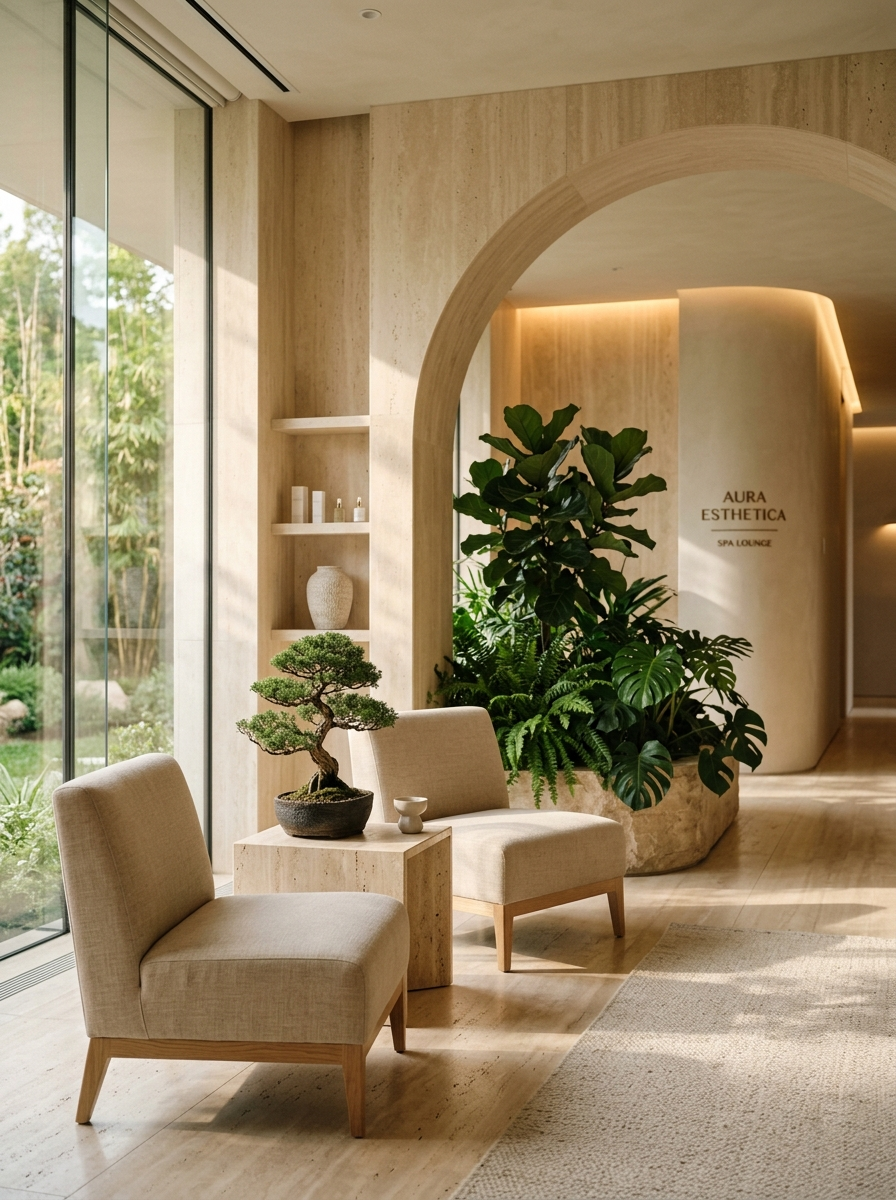
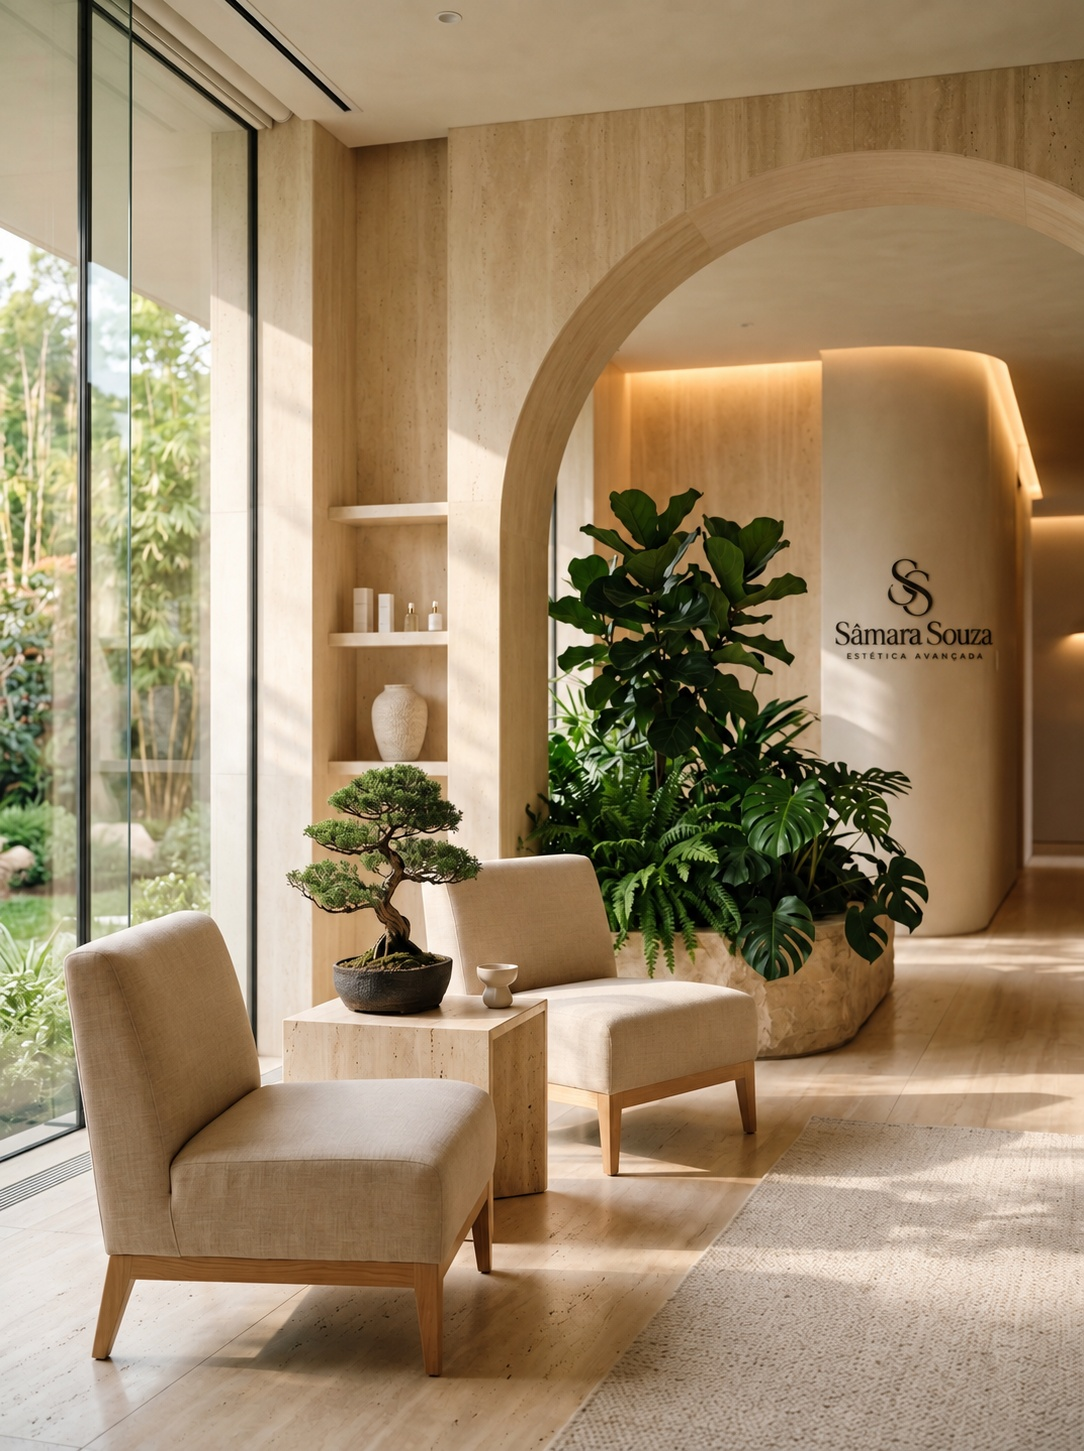
feat(ui): nova imagem premium de login e formatadores corretos de CPF e telefone

diff --git a/components/dashboard/sections/customer-form-modal.tsx b/components/dashboard/sections/customer-form-modal.tsx
@@ -104,30 +104,56 @@ export function CustomerFormModal({
 
   const handleCpfChange = (event: React.ChangeEvent<HTMLInputElement>) => {
     const formatted = formatCpf(event.currentTarget.value);
-    event.currentTarget.setCustomValidity(
-      isCompleteCpf(formatted) || !formatted ? "" : "Informe os 11 dígitos do CPF.",
-    );
+    event.currentTarget.setCustomValidity("");
     setCpf(formatted);
+  };
+
+  const handleCpfBlur = (event: React.FocusEvent<HTMLInputElement>) => {
+    if (cpf && !isCompleteCpf(cpf)) {
+      event.currentTarget.setCustomValidity("Informe os 11 dígitos do CPF.");
+    } else {
+      event.currentTarget.setCustomValidity("");
+    }
   };
 
   const handlePhoneChange = (event: React.ChangeEvent<HTMLInputElement>) => {
     const formatted = formatPhone(event.currentTarget.value);
-    event.currentTarget.setCustomValidity(
-      isCompletePhone(formatted) || !formatted
-        ? ""
-        : "Informe um telefone com DDD e 10 ou 11 dígitos.",
-    );
+    event.currentTarget.setCustomValidity("");
     setPhone(formatted);
+  };
+
+  const handlePhoneBlur = (event: React.FocusEvent<HTMLInputElement>) => {
+    if (phone && !isCompletePhone(phone)) {
+      event.currentTarget.setCustomValidity(
+        "Informe um telefone com DDD e 10 ou 11 dígitos.",
+      );
+    } else {
+      event.currentTarget.setCustomValidity("");
+    }
   };
 
   const handleSubmit = (e: React.FormEvent) => {
     e.preventDefault();
 
-    if (
-      !isCompleteCpf(cpf) ||
-      !isCompletePhone(phone) ||
-      !ALAGOAS_LOCATIONS.includes(location)
-    ) {
+    if (!isCompleteCpf(cpf)) {
+      const cpfInput = document.getElementById("customer-cpf") as HTMLInputElement;
+      if (cpfInput) {
+        cpfInput.setCustomValidity("Informe os 11 dígitos do CPF.");
+        cpfInput.reportValidity();
+      }
+      return;
+    }
+
+    if (!isCompletePhone(phone)) {
+      const phoneInput = document.getElementById("customer-phone") as HTMLInputElement;
+      if (phoneInput) {
+        phoneInput.setCustomValidity("Informe um telefone com DDD e 10 ou 11 dígitos.");
+        phoneInput.reportValidity();
+      }
+      return;
+    }
+
+    if (!ALAGOAS_LOCATIONS.includes(location)) {
       (e.currentTarget as HTMLFormElement).reportValidity();
       return;
     }
@@ -237,6 +263,7 @@ export function CustomerFormModal({
                 placeholder="000.000.000-00"
                 value={cpf}
                 onChange={handleCpfChange}
+                onBlur={handleCpfBlur}
                 className="w-full h-11 sm:h-10 px-3.5 rounded-xl bg-[#f7f7f7] border border-transparent focus:border-black text-base sm:text-xs text-black outline-none transition-all placeholder:text-[#8f8f8f]"
               />
               <p id="customer-cpf-help" className="text-[11px] text-[#767676]">
@@ -258,6 +285,7 @@ export function CustomerFormModal({
                 placeholder="(82) 98765-4321"
                 value={phone}
                 onChange={handlePhoneChange}
+                onBlur={handlePhoneBlur}
                 className="w-full h-11 sm:h-10 px-3.5 rounded-xl bg-[#f7f7f7] border border-transparent focus:border-black text-base sm:text-xs text-black outline-none transition-all placeholder:text-[#8f8f8f]"
               />
               <p id="customer-phone-help" className="text-[11px] text-[#767676]">

diff --git a/components/auth/login-view.tsx b/components/auth/login-view.tsx
@@ -164,7 +164,7 @@ export function LoginView({ onLoginSuccess, onRegisterSuccess }: LoginViewProps)
         className="hidden lg:flex lg:w-1/2 relative rounded-[28px] xl:rounded-[32px] overflow-hidden bg-[#161616] border border-white/[0.08] shadow-[inset_0_1px_0_rgba(255,255,255,0.12),0_24px_64px_-16px_rgba(0,0,0,0.9)] flex-col justify-between p-8 xl:p-12 select-none group"
       >
         <img
-          src="/relaxing-spa.jpg"
+          src="/login-clinic.png"
           alt="Ambiente Relaxante da Clínica Dra. Sâmara Souza"
           className="absolute inset-0 w-full h-full object-cover object-center scale-100 transition-transform duration-1000 ease-out group-hover:scale-105"
         />
@@ -207,7 +207,7 @@ export function LoginView({ onLoginSuccess, onRegisterSuccess }: LoginViewProps)
           {/* Card visual compacto para telas mobile (< lg) */}
           <div className="lg:hidden w-full h-36 sm:h-44 rounded-2xl sm:rounded-3xl overflow-hidden relative mb-1 border border-white/[0.1] shadow-lg shrink-0">
             <img
-              src="/relaxing-spa.jpg"
+              src="/login-clinic.png"
               alt="Ambiente Relaxante Dra. Sâmara Souza"
               className="w-full h-full object-cover object-center"
             />

diff --git a/components/auth/onboarding-modal.tsx b/components/auth/onboarding-modal.tsx
@@ -27,6 +27,7 @@ import {
 } from "@/lib/storage-keys";
 import { saveUserProfileToFirestore } from "@/lib/firebase-service";
 import { toast } from "sonner";
+import { formatPhone } from "@/lib/customer-input";
 
 interface OnboardingModalProps {
   isOpen: boolean;
@@ -350,9 +351,10 @@ export function OnboardingModal({
                   <input
                     type="text"
                     value={phone}
-                    onChange={(e) => setPhone(e.target.value)}
+                    maxLength={15}
+                    onChange={(e) => setPhone(formatPhone(e.target.value))}
                     className="w-full h-10 px-3.5 rounded-xl bg-[#fafafa] dark:bg-[#232323] border border-black/[0.08] dark:border-white/[0.08] focus:border-[#A8B29A] text-xs text-black dark:text-white outline-none"
-                    placeholder="(11) 98844-2200"
+                    placeholder="(82) 98765-4321"
                   />
                 </div>
               </div>

diff --git a/components/dashboard/sections/settings.tsx b/components/dashboard/sections/settings.tsx
@@ -52,6 +52,7 @@ import {
 } from "@/lib/storage-keys";
 import { saveUserProfileToFirestore } from "@/lib/firebase-service";
 import { changeUserPassword } from "@/lib/auth-service";
+import { formatPhone } from "@/lib/customer-input";
 
 export function SettingsSection() {
   const [activeTab, setActiveTab] = useState("profile");
@@ -504,8 +505,10 @@ export function SettingsSection() {
                   <Input
                     id="profPhone"
                     value={profile.phone}
+                    maxLength={15}
+                    placeholder="(82) 98765-4321"
                     onChange={(e) =>
-                      setProfile({ ...profile, phone: e.target.value })
+                      setProfile({ ...profile, phone: formatPhone(e.target.value) })
                     }
                     className="bg-secondary/50 border-border text-base sm:text-xs text-foreground h-10 sm:h-9 rounded-xl"
                   />

diff --git a/lib/customer-input.ts b/lib/customer-input.ts
@@ -23,11 +23,20 @@ export function formatPhone(value: string): string {
 
   const areaCode = digits.slice(0, 2)
   const local = digits.slice(2)
-  const prefixLength = digits.length === 11 ? 5 : Math.min(4, local.length)
-  const prefix = local.slice(0, prefixLength)
-  const suffix = local.slice(prefixLength)
 
-  return `(${areaCode}) ${prefix}${suffix ? `-${suffix}` : ""}`
+  // Celular no Brasil (começa com 9 e tem bloco inicial de 5 dígitos)
+  if (local.startsWith("9")) {
+    if (local.length <= 5) {
+      return `(${areaCode}) ${local}`
+    }
+    return `(${areaCode}) ${local.slice(0, 5)}-${local.slice(5)}`
+  }
+
+  // Telefone fixo (bloco inicial de 4 dígitos)
+  if (local.length <= 4) {
+    return `(${areaCode}) ${local}`
+  }
+  return `(${areaCode}) ${local.slice(0, 4)}-${local.slice(4)}`
 }
 
 export function isCompleteCpf(value: string): boolean {
